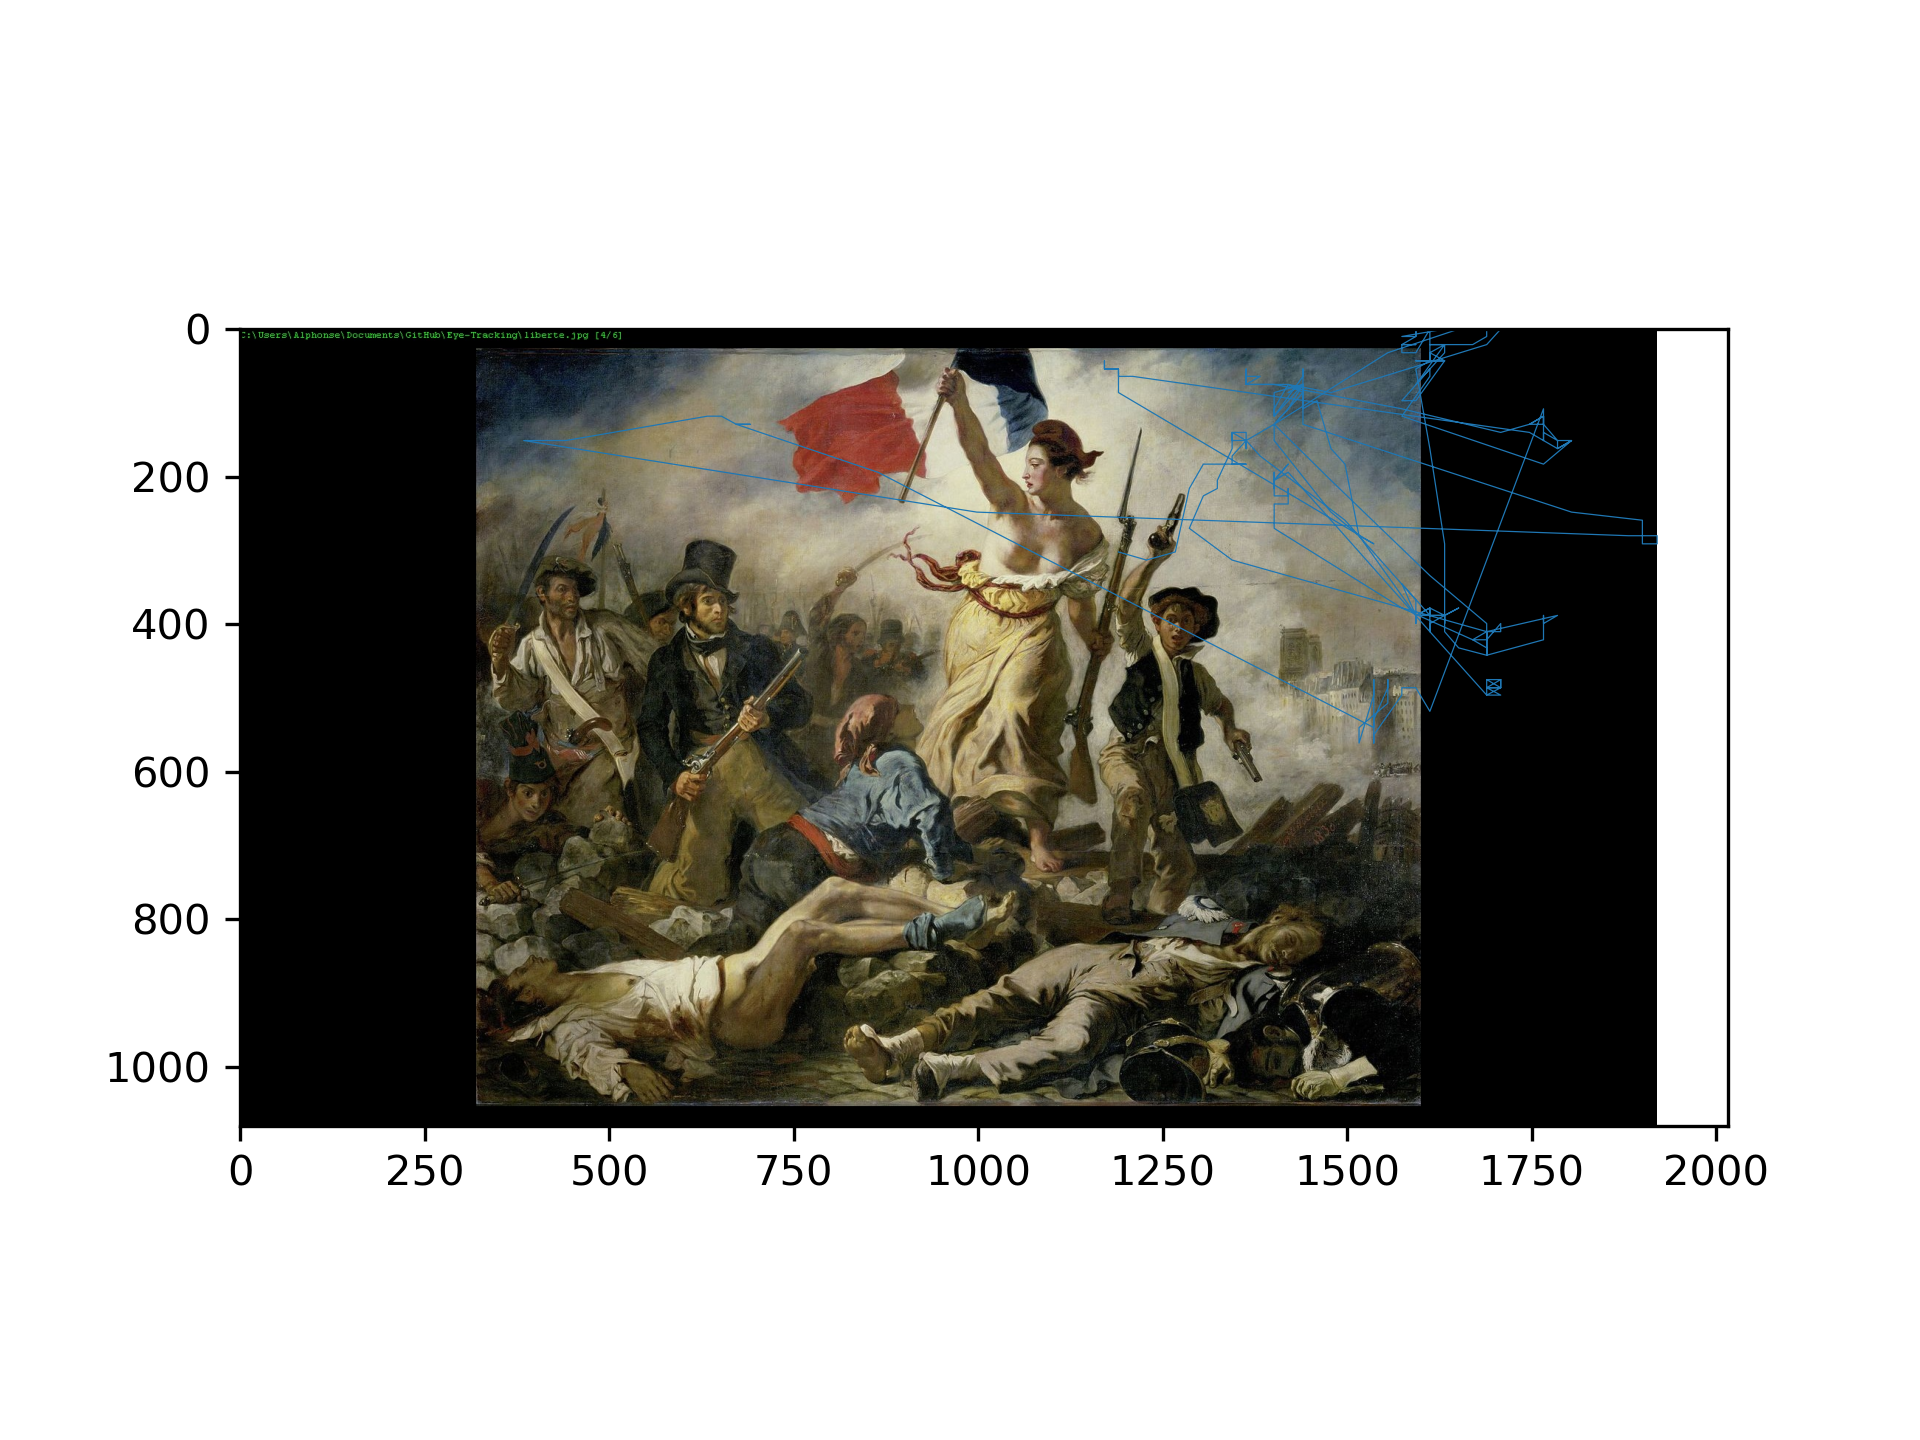
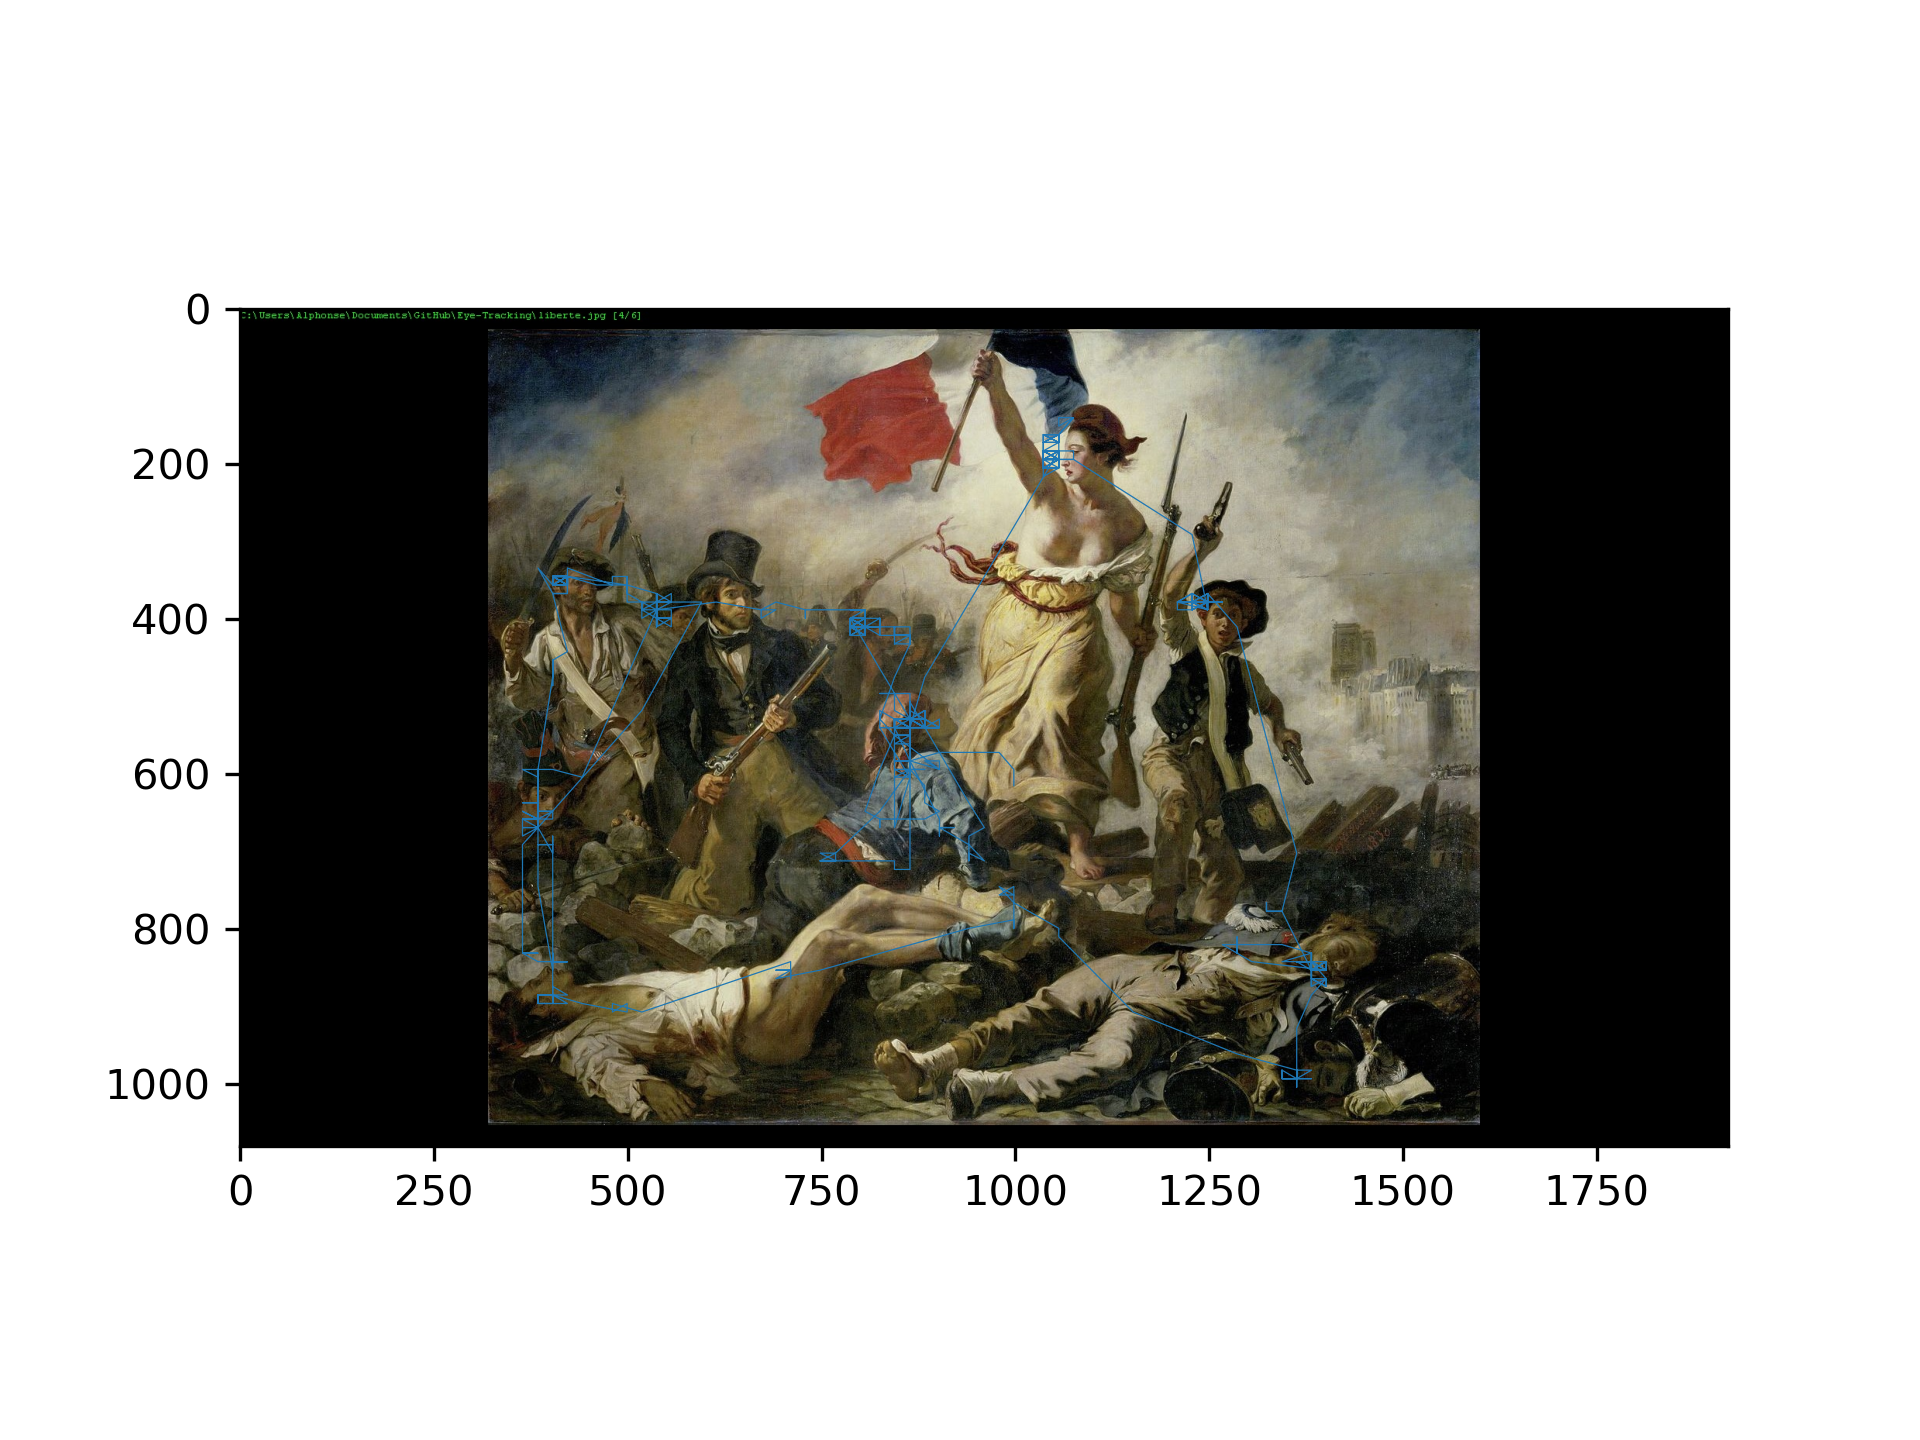
Improve fixations detection

diff --git a/components/example.py b/components/example.py
@@ -1,32 +1,30 @@
 from components.detectors import fixation_detection, saccade_detection
-from components.plot_fixations import plot_fixations_path, plot_fixations_points
+from components.plot_fixations import plot_path, plot_fixations_points
 import pandas as pd
+
 FILENAME = 'all_gaze_data-958009508617'
 IMAGENAME = 'liberte1080.jpg'
 
-def test(filename=FILENAME, imagename=IMAGENAME, default_path=''):
-    df = pd.read_excel(default_path +r'data/' + filename + '.xlsx')
 
+def process(filename=FILENAME, imagename=IMAGENAME, default_path=''):
+    df = pd.read_excel(default_path + r'data/' + filename + '.xlsx')
+
+    df = df[(~(df['x'].isna())) & (~(df['y'].isna()))]
     print(df)
 
-    Sfix, Efix = fixation_detection(df['x'], df['y'], df['system_time_stamp'], 500)
-    df_fixations = pd.DataFrame(data=Efix, columns=['starttime', 'endtime', 'duration', 'endx', 'endy'])
-    df_fixations[['startx', 'starty']] = df_fixations[['endx', 'endy']]
-    df_fixations['type'] = 'fixation'
+    maxdist=175
+    #for maxdist in [100, 150, 175, 200, 225, 250, 275, 300, 325, 350, 375, 400]:
+    Sfix, Efix = fixation_detection(df['x'], df['y'], df['system_time_stamp'], maxdist=maxdist, mindur=20)
+    df_fixations = pd.DataFrame(data=Efix, columns=['starttime', 'endtime', 'duration', 'x', 'y'])
 
-    Ssac, Esac = saccade_detection(df['x'], df['y'], df['system_time_stamp'], minlen=40, maxvel=1000)
-    df_saccades = pd.DataFrame(data=Esac, columns=['starttime', 'endtime', 'duration', 'startx', 'starty', 'endx', 'endy'])
-    df_saccades['type'] = 'saccade'
+    df_fixations = df_fixations.sort_values(by=['starttime'])
+    df_fixations = df_fixations[['starttime', 'endtime', 'duration', 'x', 'y']]
+    df_fixations.to_excel(default_path + r'processed_data/' + filename + '-fixations.xlsx', index=False)
 
-    df_output = pd.concat([df_fixations, df_saccades])
-    df_output = df_output.sort_values(by=['starttime'])
-    df_output = df_output[['starttime', 'endtime', 'duration', 'startx', 'starty', 'endx', 'endy', 'type']]
-    df_output.to_excel(default_path +r'processed_data/' + filename + '-analyze.xlsx', index=False)
+    # plot_fixations_points(df['x'], df['y'], image_name, 1)
+    # plot_path(df['x'], df['y'], imagename, linewidth=0.3, markersize=0.6, default_path=default_path)
+    plot_fixations_points(df_fixations['x'], df_fixations['y'], imagename, 0.2, default_path=default_path, output_ind=str(maxdist))
 
-    #plot_fixations_points(df['x'], df['y'], image_name, 1)
-    plot_fixations_path(df['x'], df['y'], imagename, linewidth=0.3, markersize=0.6, default_path=default_path)
-    plot_fixations_points(df_output['startx'], df_output['starty'], imagename, 0.2, default_path=default_path)
 
 if __name__ == '__main__':
-
-    test(FILENAME, IMAGENAME, default_path=r'../')
+    process(FILENAME, IMAGENAME, default_path=r'../')

diff --git a/main.py b/main.py
@@ -4,12 +4,13 @@ import time
 import pandas as pd
 import d3dshot
 from PIL import Image
-from components.example import test
+from components.example import process
 
 lestobii = tobii.find_all_eyetrackers()
 montobii = lestobii[0]
 duree = 10
 mouse = Controller()
+RESOLUTION = (1920, 1080)
 
 print("Son adresse IP: " + montobii.address)
 print("Le modèle: " + montobii.model)
@@ -64,17 +65,20 @@ def gaze_data_callback(gaze_data):
     print("OG: ({gaze_left_eye}) \t OD: ({gaze_right_eye})".format(
         gaze_left_eye=gaze_data['left_gaze_point_on_display_area'],
         gaze_right_eye=gaze_data['right_gaze_point_on_display_area']))
-    '''
+
     # print(gaze_data)
+    '''
     gaze_data['mouse_position'] = mouse.position
+    try:
+        gaze_data['x'] = round(
+            (gaze_data['left_gaze_point_on_display_area'][0] + gaze_data['right_gaze_point_on_display_area'][0]) / 2, 2)
+        gaze_data['y'] = round(
+            (gaze_data['left_gaze_point_on_display_area'][1] + gaze_data['right_gaze_point_on_display_area'][1]) / 2, 2)
 
-    gaze_data['x'] = round(
-        (gaze_data['left_gaze_point_on_display_area'][0] + gaze_data['right_gaze_point_on_display_area'][0]) / 2, 2)
-    gaze_data['y'] = round(
-        (gaze_data['left_gaze_point_on_display_area'][1] + gaze_data['right_gaze_point_on_display_area'][1]) / 2, 2)
-
-    gaze_data['x'] = min(max(0, int(gaze_data['x'] * 1920)), 1920)
-    gaze_data['y'] = min(max(0, int(gaze_data['y'] * 1080)), 1080)
+        gaze_data['x'] = min(max(0, int(gaze_data['x'] * RESOLUTION[0])), RESOLUTION[0])
+        gaze_data['y'] = min(max(0, int(gaze_data['y'] * RESOLUTION[1])), RESOLUTION[1])
+    except:
+        pass
 
     print(gaze_data)
     '''
@@ -90,7 +94,7 @@ def gaze_data_callback(gaze_data):
         all_gaze_data.append(gaze_data)
         get_image(gaze_data['system_time_stamp'], d)
     '''
-    # move_mouse(gaze_data)
+
     all_gaze_data.append(gaze_data)
 
     print(gaze_data['system_time_stamp'])
@@ -101,12 +105,11 @@ montobii.subscribe_to(tobii.EYETRACKER_GAZE_DATA, gaze_data_callback, as_diction
 time.sleep(duree)
 montobii.unsubscribe_from(tobii.EYETRACKER_GAZE_DATA, gaze_data_callback)
 df = pd.DataFrame.from_records(all_gaze_data)
-print(df)
 
 first_system_timestamp = str(df['system_time_stamp'].values[0])
 df.to_excel('data/all_gaze_data-' + first_system_timestamp + '.xlsx', index=False)
 
-test('all_gaze_data-' + first_system_timestamp)
+process('all_gaze_data-' + first_system_timestamp)
 # print(list_images)
 for timestamp in list_images:
     # print(list_images[timestamp])

diff --git a/components/plot_fixations.py b/components/plot_fixations.py
@@ -5,23 +5,32 @@ import pandas as pd
 # df = pd.read_excel('../gaze_data/analyze/all_gaze_data-952409502500-analyze.xlsx')
 
 
-def plot_fixations_points(x, y, image_name, pointsize, default_path=''):
+def plot_fixations_points(x, y, image_name, pointsize, default_path='', output_ind=''):
+
     image_name = default_path+'examples/liberte1080.jpg'
     im = plt.imread(image_name)
     implot = plt.imshow(im)
 
-    # put a red dot, size 40, at 2 locations:
-    plt.scatter(x, y, c='r', s=pointsize)
-    plt.savefig(default_path+'examples/testplot_points.png', dpi=300)
+    print(x.shape)
+    print(y.shape)
+
+    n = [x for x in range(1, len(x)+1)]
+    print(n)
+    #plt.scatter(x, y, c='r', s=pointsize)
+
+    for i, txt in enumerate(n):
+        plt.text(x[i], y[i], txt, c='r', fontsize=3)
+
+
+    plt.savefig(default_path+'examples/testplot_points'+output_ind+'.png', dpi=300)
     plt.show()
 
 
-def plot_fixations_path(x, y, image_name, linewidth, markersize, default_path=''):
+def plot_path(x, y, image_name, linewidth, markersize, default_path=''):
     image_name = default_path+'examples/liberte1080.jpg'
     im = plt.imread(image_name)
     implot = plt.imshow(im)
 
-    # put a red dot, size 40, at 2 locations:
     plt.plot(x, y, linewidth=linewidth, markersize=markersize)
     plt.savefig(default_path+'examples/testplot_path.png', dpi=300)
     plt.show()
